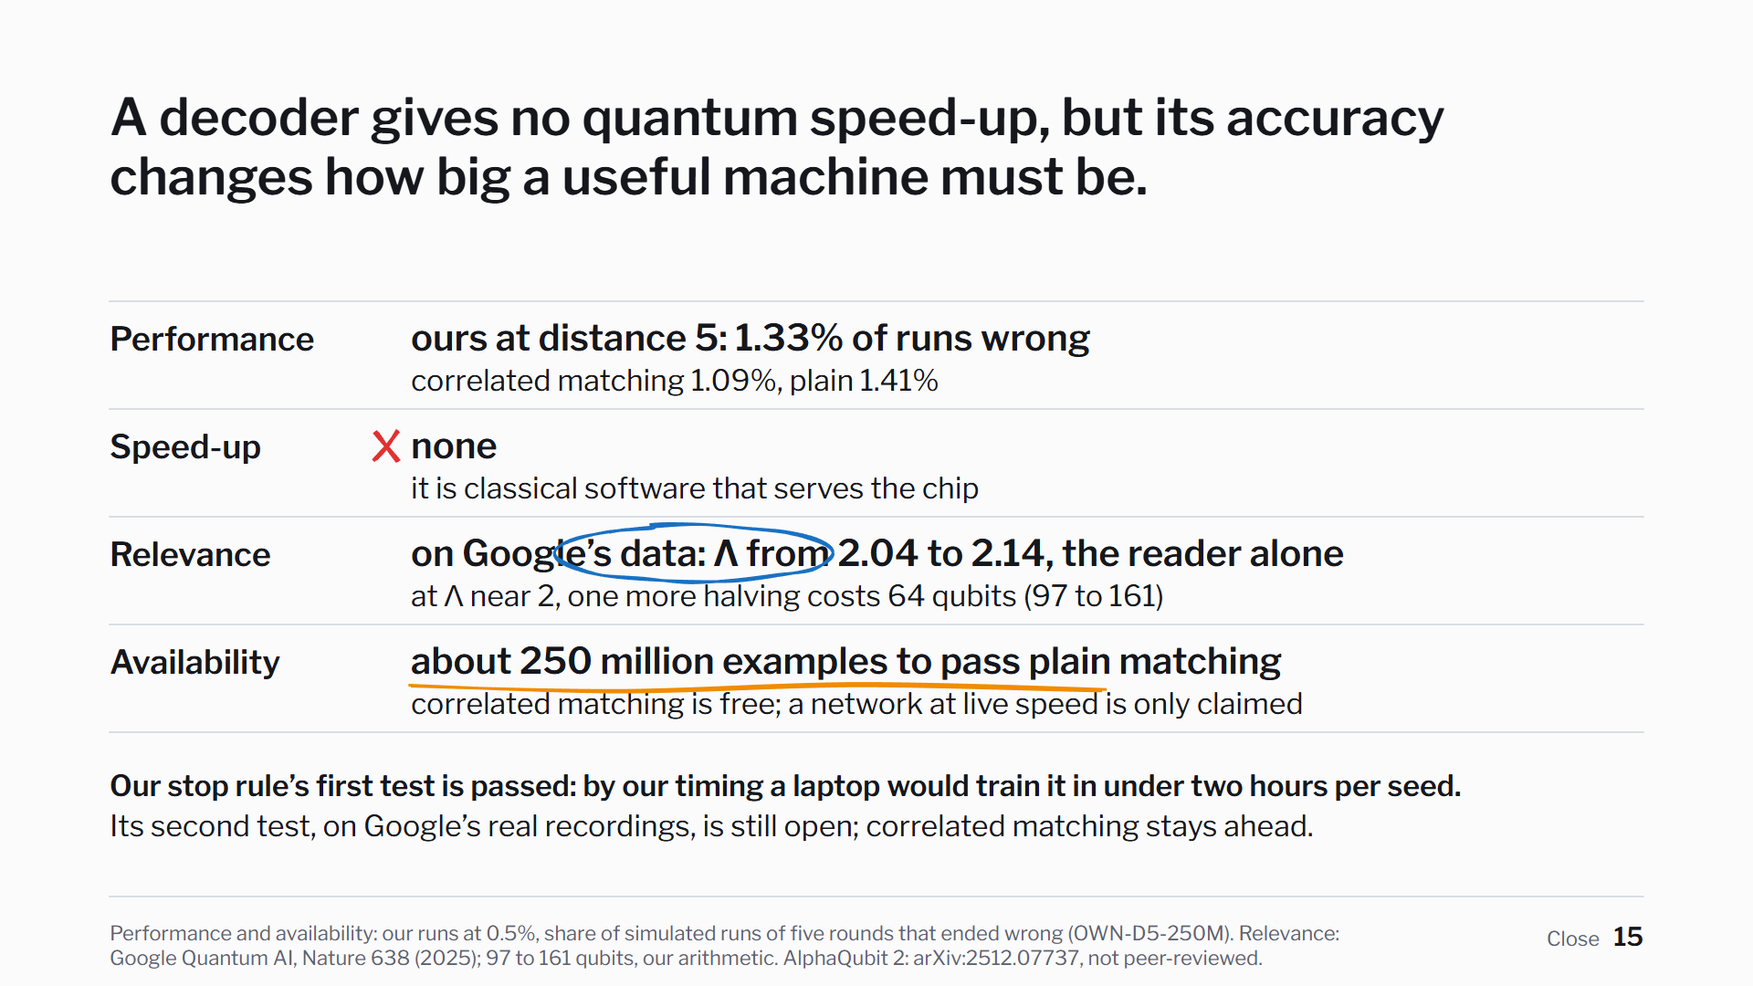
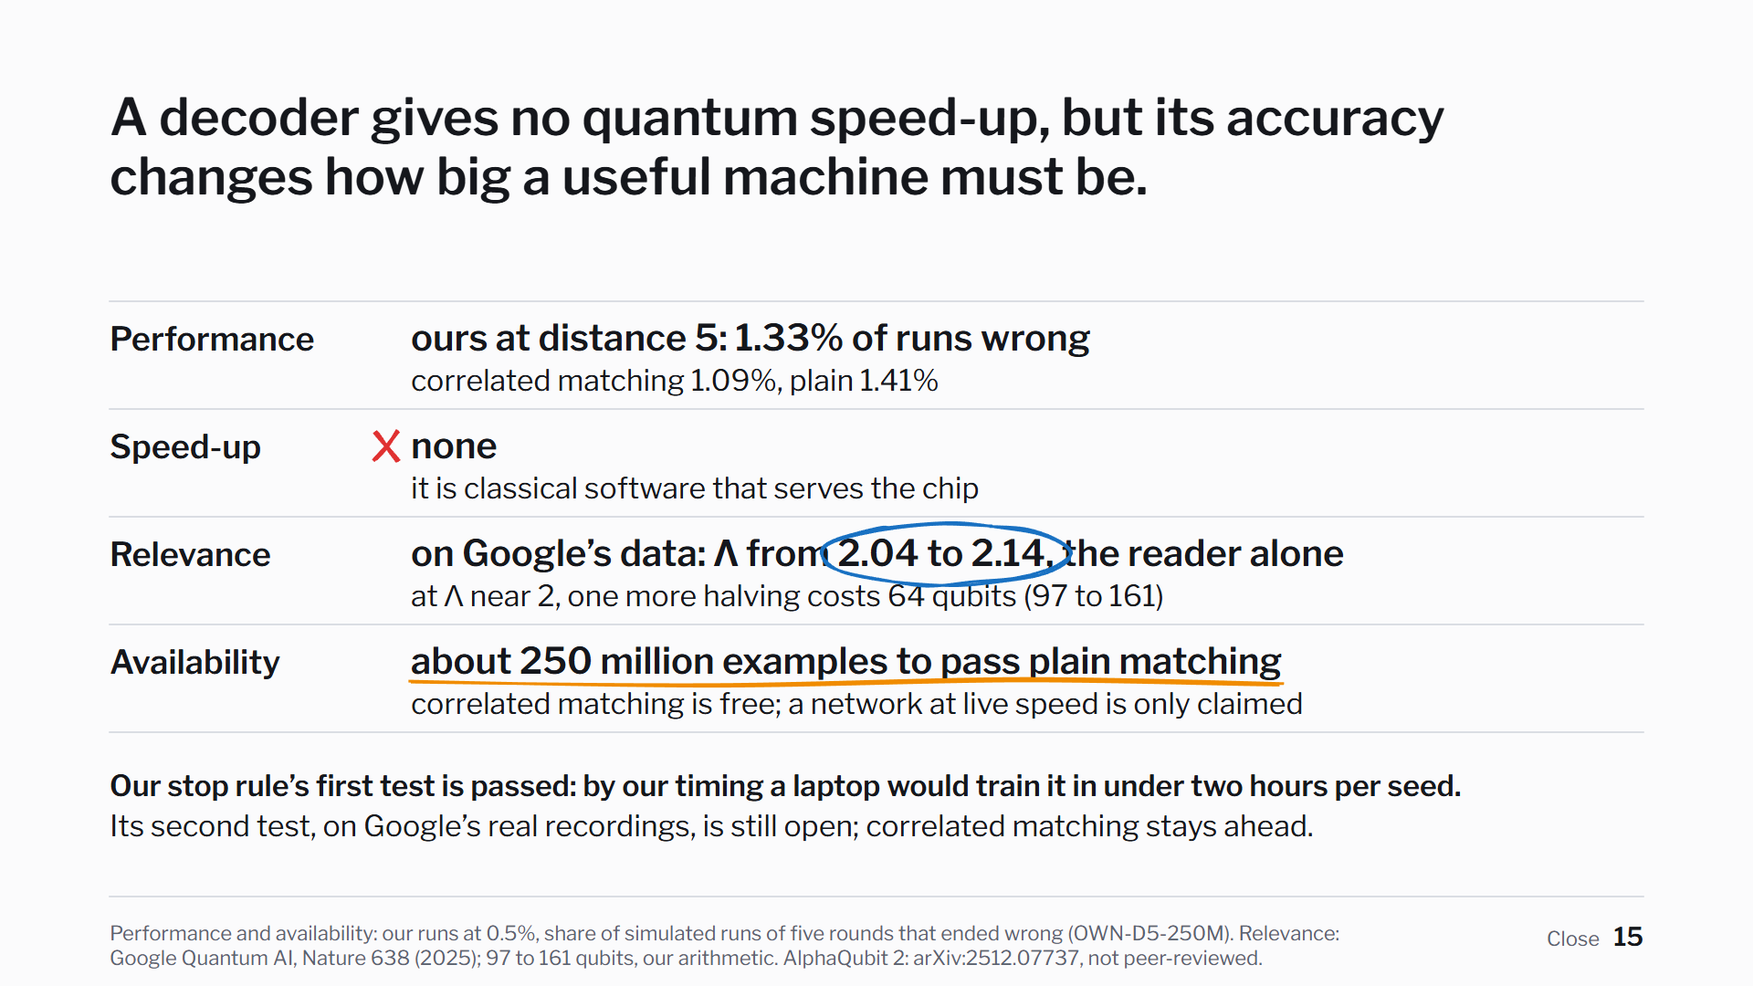
talks/quantum: redesign round 1 fixed (clock, Google and noise back to their slide versions; hand marks measured from the words they mark; slide 13 as words and arrows)

diff --git a/talks/quantum/slides/12-clock/slide.js b/talks/quantum/slides/12-clock/slide.js
@@ -1,16 +1,57 @@
-// Slide 12: one time line, the article's clock at its steps.
-import { C, L, R, svgOf, T, frame, articleFigure, inkLayer, PEN } from '../../kit.js';
-import * as fig from '../../../../articles/other-half/figures/clock.js';
+// Slide 12: one time line in millionths of a second (clock.json). The chip
+// finishes a round every 1.1; the 2024 network needs 24 per round (quoted in
+// Google's paper), so the backlog grows; live matching on a smaller chip, in
+// its own lane with its own setup named, kept pace.
+import { C, L, R, svgOf, T, frame, ln, rc } from '../../kit.js';
 
-const STEPS = [2, 4];
 export default {
-  id: 'clock', n: 12, part: 'Content', builds: STEPS.length, speaker: 'B',
+  id: 'clock', n: 12, part: 'Content', builds: 2, speaker: 'B',
   title: 'The network needed 24 millionths of a second for a round the chip finishes in 1.1.',
-  clicks: ['rounds pile up', 'the end of a run: live matching kept pace'],
+  clicks: ['the chip’s rounds and the network’s answers', 'live matching, another setup'],
   draw(page, b, data) {
     const svg = svgOf(page);
-    frame(svg, { title: this.title, n: this.n, part: this.part, source: 'The article’s figure “clock”. Google Quantum AI, Nature 638 (2025), Sec. V: round time and live matching measured; the network’s 24 quoted from earlier work. Preprint: arXiv:2512.07737, not reviewed.' });
-    const F = articleFigure(page, fig, STEPS[b], { x: 200, y: 240, w: 1520 }, data.clock, { layout: 'wide', textPx: 30 });
-    const ink = inkLayer(page);
+    const ck = data.clock, round = ck.round.value;
+    const net = ck.decoders.find((d) => d.id === 'network-2024').value;
+    const live = ck.decoders.find((d) => d.id === 'live-matching-2024');
+    frame(svg, {
+      title: this.title, n: this.n, part: this.part,
+      source: 'Google Quantum AI, Nature 638 (2025), Sec. V: round time measured; the network’s 24 quoted there from earlier work (it read recorded data afterwards); live matching measured. Backlog: our arithmetic.',
+    });
+    const x0 = 520, x1 = R - 20, T80 = 80;
+    const X = (t) => x0 + (t / T80) * (x1 - x0);
+    const axisY = 900;
+    ln(svg, x0, axisY, x1, axisY);
+    [0, 20, 40, 60, 80].forEach((t) => { ln(svg, X(t), axisY, X(t), axisY + 12); T(svg, X(t), axisY + 50, String(t), { size: 32, anchor: 'middle', fill: C.ink }); });
+    T(svg, L, axisY + 50, 'millionths of a second', { size: 32, fill: C.muted });
+    // lane 1: the chip
+    const y1 = 380;
+    T(svg, L, y1 + 12, 'The chip', { size: 36, weight: 600 });
+    T(svg, L, y1 + 52, `a round every ${round}`, { size: 32 });
+    T(svg, x0, y1 - 40, 'one tick per round', { size: 32, fill: C.ink });
+    for (let t = round; t <= T80; t += round) rc(svg, X(t) - 2, y1 - 24, 4, 48, { fill: C.ink, stroke: 'none' });
+    {
+      const y2 = 560;
+      T(svg, L, y2 + 12, 'The 2024 network', { size: 36, weight: 600, fill: C.accent });
+      T(svg, L, y2 + 52, `${net} per round, quoted`, { size: 32 });
+      for (let k = 0; k < 3; k++) {
+        const s = round + k * net, e = s + net;
+        rc(svg, X(s) + 3, y2 - 30, X(e) - X(s) - 6, 60, { fill: C.field, stroke: C.accent, 'stroke-width': 3, rx: 6 });
+        T(svg, (X(s) + X(e)) / 2, y2 + 12, `round ${k + 1}`, { size: 32, anchor: 'middle' });
+      }
+      const at = round + 3 * net, done = Math.floor(at / round);
+      ln(svg, X(at), y1 - 40, X(at), y2 + 40, { 'stroke-dasharray': '10 10', 'stroke-width': 3 });
+      // round 3 answered; round 4 being worked on; the rest wait
+      T(svg, X(at) - 18, y2 + 100, `at about ${Math.round(at)}: round 3 answered, the chip at round ${done},`, { size: 32, weight: 600, anchor: 'end' });
+      T(svg, X(at) - 18, y2 + 140, `${done - 4} rounds waiting, and the gap keeps growing`, { size: 32, weight: 600, anchor: 'end' });
+    }
+    if (b >= 1) {
+      const y3 = 790;
+      T(svg, L, y3 - 8, 'Live matching,', { size: 36, weight: 600 });
+      T(svg, L, y3 + 34, 'distance 5, 72-qubit chip', { size: 32, weight: 600 });
+      // the delay itself, drawn on the same axis: 63 after the last round
+      rc(svg, X(0), y3 - 24, X(live.value) - X(0), 30, { fill: C.hair, stroke: C.ink, 'stroke-width': 3, rx: 4 });
+      T(svg, X(live.value) + 16, y3 + 2, String(live.value), { size: 36, weight: 600 });
+      T(svg, X(0), y3 + 46, 'its answer, on average, after the last round of a run of up to a million rounds: it kept pace', { size: 32 });
+    }
   },
 };

diff --git a/talks/quantum/slides/11-google/slide.js b/talks/quantum/slides/11-google/slide.js
@@ -1,16 +1,48 @@
-// Slide 11: Google's result, the article's suppression figure.
-import { C, L, R, svgOf, T, frame, articleFigure, inkLayer, PEN } from '../../kit.js';
-import * as fig from '../../../../articles/other-half/figures/suppression.js';
+// Slide 11: Google's measured suppression (suppression.json): logical errors
+// per 100,000 rounds at distances 3, 5, 7, read afterwards by two decoders.
+// Ink: Google's best matching decoder; accent: the neural network.
+import { C, L, svgOf, T, frame, ln, pth, dot } from '../../kit.js';
 
-const STEPS = [0];
 export default {
-  id: 'google', n: 11, part: 'Content', builds: STEPS.length, speaker: 'B',
+  id: 'google', n: 11, part: 'Content', builds: 2, speaker: 'B',
   title: 'On Google’s recordings the network made about one error in six fewer.',
-  clicks: ['two decoders, one recording'],
+  clicks: ['Google’s best matching decoder', 'the network'],
   draw(page, b, data) {
     const svg = svgOf(page);
-    frame(svg, { title: this.title, n: this.n, part: this.part, source: 'The article’s figure “suppression”. Measured: Google Quantum AI, Nature 638 (2025), Sec. II and Table S1. Both decoders read the recordings afterwards.' });
-    const F = articleFigure(page, fig, STEPS[b], { x: 460, y: 230, w: 1000 }, data.suppression, { layout: 'wide', textPx: 30 });
-    const ink = inkLayer(page);
+    const [m, nn] = data.suppression.decoders;
+    frame(svg, {
+      title: this.title, n: this.n, part: this.part,
+      source: 'Measured: Google Quantum AI, Nature 638 (2025), Sec. II and Table S1. Both decoders read the recordings afterwards. Distances 3 and 5 average 9 and 4 smaller grids on the same chip.',
+    });
+    const x0 = L + 140, x1 = 1060, y0 = 330, y1 = 900;
+    const lo = Math.log10(100), hi = Math.log10(1000);
+    const Y = (v) => y1 - ((Math.log10(v) - lo) / (hi - lo)) * (y1 - y0);
+    const X = (d) => x0 + 60 + ((d - 3) / 4) * (x1 - x0 - 160);
+    ln(svg, x0, y0 - 10, x0, y1); ln(svg, x0, y1, x1, y1);
+    [100, 200, 500, 1000].forEach((v) => { ln(svg, x0 - 12, Y(v), x0, Y(v)); T(svg, x0 - 22, Y(v) + 12, String(v), { size: 32, anchor: 'end', fill: C.ink }); });
+    [3, 5, 7].forEach((d) => { ln(svg, X(d), y1, X(d), y1 + 12); T(svg, X(d), y1 + 50, `distance ${d}`, { size: 32, anchor: 'middle' }); });
+    T(svg, L, y0 - 40, 'logical errors per 100,000 rounds (log scale)', { size: 32, weight: 600 });
+    const draw = (dec, col) => {
+      const pts = dec.points.map((p) => [X(p.distance), Y(p.per_100000_rounds)]);
+      pth(svg, `M${pts.map((p) => p.join(' ')).join('L')}`, { stroke: col, 'stroke-width': 5 });
+      pts.forEach(([px, py]) => dot(svg, px, py, 11, { fill: col }));
+      const last = dec.points[2];
+      // matching's value above its point, the network's below, so the two never meet
+      const up = col === C.ink;
+      T(svg, X(7) + 26, Y(last.per_100000_rounds) + (up ? -14 : 50), String(last.per_100000_rounds), { size: 56, weight: 600, fill: col });
+    };
+    draw(m, C.ink);
+    const tx = 1260;
+    T(svg, tx, 420, 'Google’s best matching decoder', { size: 36, weight: 600 });
+    T(svg, tx, 462, 'it links the two kinds of check', { size: 32 });
+    T(svg, tx, 502, 'in a limited way. Λ = ' + m.lambda.toFixed(2), { size: 32 });
+    if (b >= 1) {
+      draw(nn, C.accent);
+      T(svg, tx, 620, 'a neural network', { size: 36, weight: 600, fill: C.accent });
+      T(svg, tx, 662, 'trained on simulations, then', { size: 32 });
+      T(svg, tx, 702, 'on the chip’s own data. Λ = ' + nn.lambda.toFixed(2), { size: 32 });
+      T(svg, tx, 820, 'Same chip, same recordings:', { size: 32, weight: 600 });
+      T(svg, tx, 860, 'only the reader changed.', { size: 32, weight: 600 });
+    }
   },
 };

diff --git a/talks/quantum/slides/15-properties/slide.js b/talks/quantum/slides/15-properties/slide.js
@@ -20,12 +20,13 @@ export default {
       ['Availability', 'about 250 million examples to pass plain matching', 'correlated matching is free; a network at live speed is only claimed'],
     ];
     const y0 = 330, hh = 118;
+    const boxA = [], boxC = [];
     rows.forEach(([k, a, c], i) => {
       const y = y0 + i * hh;
       ln(svg, L, y, R, y, { stroke: C.hair, 'stroke-width': 2 });
       T(svg, L, y + 54, k, { size: 36, weight: 600 });
-      T(svg, L + 330, y + 54, a, { size: 40, weight: 600 });
-      T(svg, L + 330, y + 98, c, { size: 32 });
+      boxA.push(T(svg, L + 330, y + 54, a, { size: 40, weight: 600 }));
+      boxC.push(T(svg, L + 330, y + 98, c, { size: 32 }));
     });
     ln(svg, L, y0 + 4 * hh, R, y0 + 4 * hh, { stroke: C.hair, 'stroke-width': 2 });
     // hand marks, as on a marked-up table: a cross for no speed-up, a ring
@@ -33,8 +34,12 @@ export default {
     const ink = inkLayer(page);
     ink.line(L + 290, y0 + hh + 24, L + 316, y0 + hh + 58, { stroke: PEN.red, strokeWidth: 4, seed: 71 });
     ink.line(L + 316, y0 + hh + 24, L + 290, y0 + hh + 58, { stroke: PEN.red, strokeWidth: 4, seed: 72 });
-    ink.ellipse(L + 640, y0 + 2 * hh + 40, 330, 64, { stroke: PEN.blue, seed: 73 });
-    ink.curve([[L + 330, y0 + 3 * hh + 66], [L + 560, y0 + 3 * hh + 74], [L + 820, y0 + 3 * hh + 64], [L + 1090, y0 + 3 * hh + 72]], { stroke: PEN.orange, seed: 74 });
+    // ring round "2.04 to 2.14", measured from the drawn words
+    const w1 = boxA[2].find('2.04'), w2 = boxA[2].find('2.14,');
+    if (w1 && w2) ink.ellipse((w1.x + w2.x + w2.w) / 2, w1.cy, (w2.x + w2.w - w1.x) + 60, 70, { stroke: PEN.blue, seed: 73 });
+    // a wavy underline under the availability line, inside its own row
+    const a3 = boxA[3], yU = a3.bottom - 2;
+    ink.curve([[a3.x, yU], [a3.x + a3.w * 0.35, yU + 6], [a3.x + a3.w * 0.7, yU - 3], [a3.x + a3.w, yU + 4]], { stroke: PEN.orange, seed: 74 });
     if (b >= 1) {
       T(svg, L, 872, 'Our stop rule’s first test is passed: by our timing a laptop would train it in under two hours per seed.', { size: 32, weight: 600 });
       T(svg, L, 916, 'Its second test, on Google’s real recordings, is still open; correlated matching stays ahead.', { size: 32 });

diff --git a/talks/quantum/slides/b5-noise-table/slide.js b/talks/quantum/slides/b5-noise-table/slide.js
@@ -1,16 +1,16 @@
-// Backup 5: the long run at eight noise levels, the article's noise figure.
-import { C, L, R, svgOf, T, frame, articleFigure, inkLayer, PEN } from '../../kit.js';
-import * as fig from '../../../../articles/other-half/figures/noise.js';
+import { L, R, svgOf, backup } from '../../kit.js';
 
-const STEPS = [0];
+// Backup 5: distance 5, network trained on about 250 million examples, at
+// eight noise levels (noise.json): the share of runs wrong, five seeds pooled.
+const pc = (v) => `${(v * 100 + 1e-9).toFixed(v < 0.0005 ? 4 : 3)}%`;  // as the article rounds
 export default {
-  id: 'noise-table', n: 'B5', backup: true, part: 'Backup', builds: STEPS.length, speaker: 'B',
+  id: 'noise-table', n: 'B5', backup: true, builds: 1,
   title: 'Distance 5: the network against both matchers at eight noise levels.',
   clicks: ['backup'],
   draw(page, b, data) {
     const svg = svgOf(page);
-    frame(svg, { title: this.title, n: this.n, part: this.part, source: 'The article’s figure “noise”. Simulated, our own runs (OWN-D5-250M): five seeds pooled, 10 million runs per noise level, 95% intervals.' });
-    const F = articleFigure(page, fig, STEPS[b], { x: 200, y: 220, w: 1520 }, data.noise, { layout: 'wide', textPx: 30 });
-    const ink = inkLayer(page);
+    const rows = data.noise.rows.map((r) => [`${(r.p * 100).toFixed(1)}%`, pc(r.network.pooled.rate), pc(r.plain.pooled ? r.plain.pooled.rate : r.plain.rate), pc(r.correlated.pooled ? r.correlated.pooled.rate : r.correlated.rate)]);
+    backup(svg, { title: this.title, n: this.n, source: 'Simulated, our own runs (OWN-D5-250M): five seeds pooled, 10 million runs per noise level. Intervals in the article.' },
+      { y0: 290, table: { head: ['noise level', 'network', 'plain matching', 'correlated matching'], rows, xs: [L, 760, 1220, R] } });
   },
 };

diff --git a/talks/quantum/slides/13-method/slide.js b/talks/quantum/slides/13-method/slide.js
@@ -13,11 +13,15 @@ export default {
     const ink = inkLayer(page);
     // the pipeline, sketched
     const y = 400, boxes = [[140, 'Stim', 'simulated runs'], [640, 'which checks', 'fired'], [1140, 'network', '3 × 256 units'], [1560, 'flipped', 'or not?']];
+    // a chain of words joined by hand arrows, each arrow a little different
     boxes.forEach(([x, a, c], i) => {
-      ink.rect(x, y - 70, i === 3 ? 230 : 330, 150, { seed: 50 + i, stroke: i === 2 ? PEN.blue : PEN.ink, fill: i === 2 ? '#d0ebff' : undefined, fillStyle: 'hachure', hachureGap: 14 });
-      T(svg, x + (i === 3 ? 115 : 165), y - 4, a, { size: 36, weight: 600, anchor: 'middle' });
-      T(svg, x + (i === 3 ? 115 : 165), y + 40, c, { size: 32, anchor: 'middle' });
-      if (i < 3) ink.arrow([[x + 340, y], [boxes[i + 1][0] - 14, y]], { seed: 60 + i, head: 24 });
+      T(svg, x + 165, y - 4, a, { size: 40, weight: 600, anchor: 'middle', fill: i === 2 ? C.accent : C.ink });
+      T(svg, x + 165, y + 40, c, { size: 32, anchor: 'middle' });
+      if (i === 2) ink.ellipse(x + 165, y + 10, 340, 150, { stroke: PEN.blue, seed: 52 });
+      if (i < 3) {
+        const x1 = x + 320, x2 = boxes[i + 1][0] + 10;
+        ink.arrow([[x1, y], [(x1 + x2) / 2, y - 22 + i * 10], [x2, y]], { seed: 60 + i, head: 24 });
+      }
     });
     ink.note(140, y + 140, 'the same chance of error on every operation;', { size: 32 });
     ink.note(140, y + 182, 'trained at seven levels from 0.2% to 1%, tested at 0.5%', { size: 32 });

diff --git a/talks/quantum/slides/05-checks/slide.js b/talks/quantum/slides/05-checks/slide.js
@@ -12,13 +12,7 @@ export default {
     const svg = svgOf(page);
     frame(svg, { title: this.title, n: this.n, part: this.part, source: 'The article’s figure “lattice”, steps 1 to 3. Distance 3, one round, checks assumed right. Constructed by us (lattice.json).' });
     articleFigure(page, lattice, b, { x: 150, y: 250, w: 1180 }, data.lattice, { textPx: 26 });
-    const ink = inkLayer(page);
-    const say = [
-      ['tinted tiles ask', 'about flips, open ones', 'about phase errors'],
-      ['one flip:', 'the two checks', 'beside it fire'],
-      ['two flips in a line:', 'only the upper end fires;', 'the lower end meets the edge'],
-    ][b];
-    say.forEach((s, i) => ink.note(1400, 420 + i * 48, s, { size: 36 }));
-    ink.arrow([[1390, 470], [1340, 520], [1250, 560]], { seed: 3 + b, stroke: PEN.red, strokeWidth: 3.5 });
+    // one hand note, only on the first click: what the course calls this
+    if (b === 0) inkLayer(page).note(1380, 860, 'a parity check: even or odd', { size: 36, color: PEN.blue });
   },
 };

diff --git a/talks/quantum/slides/14-ours/slide.js b/talks/quantum/slides/14-ours/slide.js
@@ -72,7 +72,7 @@ export default {
       band(B, p250);
       tag(B, p250.final_network.mean, `network ${pct(p250.final_network.mean)}`, { dy: 18, weight: 600, fill: C.accent });
       const ink = inkLayer(page);
-      ink.ellipse(B.X(250e6), B.Y(p250.final_network.mean), 70, 56, { stroke: PEN.red, seed: 81 });
+      ink.ellipse(B.X(250e6) - 6, B.Y(p250.final_network.mean) - 4, 46, 46, { stroke: PEN.red, seed: 81 });
       ink.note(B.X(150e6), B.Y(0.0245), 'it got there, slowly', { color: PEN.red, size: 34 });
     }
   },

diff --git a/talks/quantum/CUES.md b/talks/quantum/CUES.md
@@ -22,26 +22,27 @@ Generated by `node tools/qdeck.mjs` from each slide's `notes.md`. Times: the not
 | 16 | 9 patterns | 6:40 | 1 of 1 | 256 patterns, 24 filled | Matching gives the less likely answer on 24 of the 256 patterns we counted. |
 | 17 | 10 two-ways | 7:41 | 1 of 2 | plain matching’s answer |  |
 | 18 | 10 two-ways |  | 2 of 2 | the Y answer, two ways | The Y answer is right six times in ten because it can happen in two ways. |
-| 19 | 11 google | 8:56 | 1 of 1 | two decoders, one recording | On Google’s recordings the network made about one error in six fewer. |
-| 20 | 12 clock | 9:49 | 1 of 2 | rounds pile up |  |
-| 21 | 12 clock |  | 2 of 2 | the end of a run: live matching kept pace | The network needed 24 millionths of a second for a round the chip finishes in 1.1. |
-| 22 | 13 method | 10:47 | 1 of 2 | the pipeline |  |
-| 23 | 13 method |  | 2 of 2 | what it is compared with; the stop rule | We trained a small network in simulation and wrote down our stop rule first. |
-| 24 | 14 ours | 11:49 | 1 of 2 | distance 3; distance 5 after 66 million |  |
-| 25 | 14 ours |  | 2 of 2 | distance 5, about 250 million | Ours passed plain matching at distance 5 only after about 250 million examples. |
-| 26 | 15 properties | 12:58 | 1 of 2 | four properties |  |
-| 27 | 15 properties |  | 2 of 2 | what the stop rule decided | A decoder gives no quantum speed-up, but its accuracy changes how big a useful machine must be. |
-| 28 | end questions |  | 1 of 1 | questions | Questions |
-| 29 | BB1 uncompute |  | 1 of 1 | backup | A helper learns only the parity, and is reset for the next round. |
-| 30 | BB2 cost |  | 1 of 1 | backup | Why a network at all, and what it costs as the grid grows. |
-| 31 | BB3 noise-model |  | 1 of 1 | backup | Our noise: the same chance of any error on every operation. |
-| 32 | BB4 correlated |  | 1 of 1 | backup | Correlated matching failed on 6 of 219 single errors in our setup. |
-| 33 | BB5 noise-table |  | 1 of 1 | backup | Distance 5: the network against both matchers at eight noise levels. |
-| 34 | BB6 second-script |  | 1 of 1 | backup | A separately written script found the same order at distance 5. |
-| 35 | BB7 preprint |  | 1 of 1 | backup | AlphaQubit 2 claims a network that keeps pace. Nobody has reviewed it yet. |
-| 36 | BB8 recordings |  | 1 of 1 | backup | The test on Google’s public recordings is still open. |
+| 19 | 11 google | 8:56 | 1 of 2 | Google’s best matching decoder |  |
+| 20 | 11 google |  | 2 of 2 | the network | On Google’s recordings the network made about one error in six fewer. |
+| 21 | 12 clock | 9:50 | 1 of 2 | the chip’s rounds and the network’s answers |  |
+| 22 | 12 clock |  | 2 of 2 | live matching, another setup | The network needed 24 millionths of a second for a round the chip finishes in 1.1. |
+| 23 | 13 method | 10:49 | 1 of 2 | the pipeline |  |
+| 24 | 13 method |  | 2 of 2 | what it is compared with; the stop rule | We trained a small network in simulation and wrote down our stop rule first. |
+| 25 | 14 ours | 11:50 | 1 of 2 | distance 3; distance 5 after 66 million |  |
+| 26 | 14 ours |  | 2 of 2 | distance 5, about 250 million | Ours passed plain matching at distance 5 only after about 250 million examples. |
+| 27 | 15 properties | 12:59 | 1 of 2 | four properties |  |
+| 28 | 15 properties |  | 2 of 2 | what the stop rule decided | A decoder gives no quantum speed-up, but its accuracy changes how big a useful machine must be. |
+| 29 | end questions |  | 1 of 1 | questions | Questions |
+| 30 | BB1 uncompute |  | 1 of 1 | backup | A helper learns only the parity, and is reset for the next round. |
+| 31 | BB2 cost |  | 1 of 1 | backup | Why a network at all, and what it costs as the grid grows. |
+| 32 | BB3 noise-model |  | 1 of 1 | backup | Our noise: the same chance of any error on every operation. |
+| 33 | BB4 correlated |  | 1 of 1 | backup | Correlated matching failed on 6 of 219 single errors in our setup. |
+| 34 | BB5 noise-table |  | 1 of 1 | backup | Distance 5: the network against both matchers at eight noise levels. |
+| 35 | BB6 second-script |  | 1 of 1 | backup | A separately written script found the same order at distance 5. |
+| 36 | BB7 preprint |  | 1 of 1 | backup | AlphaQubit 2 claims a network that keeps pace. Nobody has reviewed it yet. |
+| 37 | BB8 recordings |  | 1 of 1 | backup | The test on Google’s public recordings is still open. |
 
-**Main talk:** 1644 words, 14:05 in all. Contrast sentences in the notes: 0.
+**Main talk:** 1644 words, 14:06 in all. Contrast sentences in the notes: 0.
 
 | Slide | Seconds | Words |
 | ---: | ---: | ---: |
@@ -55,7 +56,7 @@ Generated by `node tools/qdeck.mjs` from each slide's `notes.md`. Times: the not
 | 8 silent | 47 | 94 |
 | 9 patterns | 61 | 107 |
 | 10 two-ways | 75 | 150 |
-| 11 google | 53 | 106 |
+| 11 google | 54 | 106 |
 | 12 clock | 59 | 115 |
 | 13 method | 61 | 121 |
 | 14 ours | 69 | 138 |

diff --git a/talks/quantum/README.md b/talks/quantum/README.md
@@ -6,7 +6,7 @@ Quantum Computing seminar, TH Deggendorf, group talk, Saturday 9 January 2027, 1
 
 - **Live, from this folder:** serve the repository root (`node tools/serve.mjs` or `python -m http.server 8830`) and open `talks/quantum/index.html`. Right, Space or a click: next build. Left: back. N: speaker notes. G: go to a page. Home and End.
 - **One slide alone:** `index.html?only=<slide id>` (for example `?only=clock`).
-- **Offline, one file:** `node tools/deck-offline.mjs quantum` (fonts and drawings embedded). Present this one; the PDF is the fallback.
+- **The talk's page, one file:** `node tools/qdeck-site.mjs` writes `.shots/deck/quantum/quantum-talk.html` (with `--site` also `dist/other-half/talk/index.html`): every slide as drawn, fonts and drawings embedded, a bar with the article, contents, references and thanks, speaker notes (N), full screen (F). **Ctrl+P prints every slide, one per page** (save as PDF). Present from this file.
 - **PDF and pictures:** `node tools/qdeck.mjs` writes every build as a PNG into its slide's `export/` folder, the PDF and contact sheets into `.shots/deck/quantum/`, a projector pass (1024 × 768, lifted blacks) into `.shots/deck/quantum/projector/`, the gates into `gates.txt`, and the cue sheet `CUES.md` with the timing from the notes.
 
 ## The folders
@@ -26,7 +26,13 @@ CUES.md                generated: page, slide, start time, what each click adds,
 
 ## Speakers
 
-`slide.js` names a speaker part for each slide: A (1–5), B (6–10), C (11–15). With two speakers, split at slide 9. The cue sheet adds 8 seconds at each change of speaker.
+`slide.js` names a speaker part for each slide: A (1–8), B (9–15). One speaker takes both. The cue sheet adds 8 seconds at the change of speaker.
+
+## How the slides are made
+
+- **The article's own figures** (`kit.js` `articleFigure`): the figure module from `articles/other-half/figures/` is mounted at a narrow width and scaled up, so the drawing is the article's and its lettering lands at 22–38 px. Slides 4–12 and B5.
+- **Hand sketches** (`kit.js` `inkLayer`, rough.js, the library Excalidraw uses; Virgil, Excalidraw's face): where the article has no figure (slides 2, 3, 13) and as marks on a figure (an arrow, a ring, a short note), never a copy of a label.
+- **Slide versions in the article's style** where an article figure is too dense for a projector (slide 14).
 
 ## The rules the deck keeps
 
